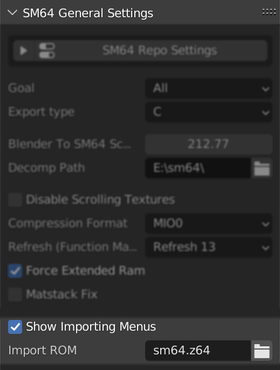
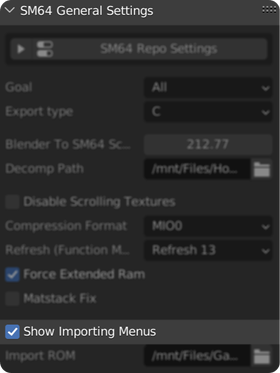
importing c and binary

diff --git a/sm64/animations/v24.rst b/sm64/animations/v24.rst
@@ -3,13 +3,33 @@ Animations 2.4.0+
 
 Importing existing animations
 -----------------------------
-To import animations, you will need a rig.
-`Read this to import your desired model's rig <https://github.com/Fast-64/fast64/blob/main/fast64_internal/sm64/README.md#importingexporting-sm64-geolayouts>`_ 
-or, for Mario, use the `example Mario model <https://github.com/Fast64/fast64-models/tree/mario-examples/mario>`_.
+| To import animations, you will need a rig.
+    `Read this to import your desired model's rig <https://github.com/Fast-64/fast64/blob/main/fast64_internal/sm64/README.md#importingexporting-sm64-geolayouts>`_ 
+    or, for Mario, use the `example Mario model <https://github.com/Fast64/fast64-models/tree/mario-examples/mario>`_.
+| Make sure to enable ``Show Importing Menus`` in the panel ``SM64 General Settings``.
 
-Then follow your respective import goal below.
+.. image:: ../showing_importing_menus.png
+    :align: center
+    :alt: SM64 Animation Inspector with the importing sub-panel opened
+
+~~~~~~~~~~~~~~~~~~~~~~~~~~~~~~~~~~~~~~~~~~~~~~~~~~~~~~~~~~~~~~~~~~~~~~
+
+After that you can find the sub-panel ``Importing`` under ``SM64 Animation Inspector``.
+
+.. image:: importer.png
+    :align: center
+    :alt: SM64 Animation Inspector with the importing sub-panel opened
+
+Then follow your respective import goal:
     - `Binary <#importing-existing-animations-binary>`_
+    - `C <#importing-existing-animations-c>`_
 
+Importing existing animations (C)
+---------------------------------
+| Select the ``C`` type and select a preset using the search button next to it, for custom presets simply select a folder or file,
+    otherwise set the decomp path in the animation importer or the general settings.
+| Enable ``Use Custom Name`` if you need the original names.
+| See `General Import Settings`_ for info on the rest of the settings.
 
 Importing existing animations (Binary)
 --------------------------------------
@@ -21,28 +41,23 @@ Setting up the ROM
 
 How to use the importer
 ~~~~~~~~~~~~~~~~~~~~~~~
-.. image:: binary_importer.png
-    :alt: "Importing Binary SM64 Animations"
-    :align: center
 
-| Select the "Binary" type and select a preset using the search button next to it, for custom presets see `Custom Import Preset (Binary)`_.
-| See `General Import Settings`_ for info on the rest of the settings.
+Select the ``Binary`` type and select a preset using the search button next to it, 
+keep reading to learn how to use custom presets, otherwise skip to `General Import Settings`_ for info on the rest of the settings.
 
-Custom Import Preset (Binary)
-~~~~~~~~~~~~~~~~~~~~~~~~~~~~~
-
+Custom Import Preset
+~~~~~~~~~~~~~~~~~~~~
 **Types**
-    - DMA: Import from a DMA table (Mario), you will need to set the ``DMA Table Address`` to the address in ROM.
-    - Table: Import from a table, you will need to enable/disable ``Is Segmented Address`` and set the address of the table, 
+    - ``DMA``: Import from a DMA table (Mario), you will need to set the ``DMA Table Address`` to the address in ROM.
+    - ``Table``: Import from a table, you will need to enable/disable ``Is Segmented Address`` and set the address of the table, 
       set ``Level`` to a level where the table is loaded, enable ``Check NULL Delimiter`` if the table's last element is a NULL (0x00)
       otherwise set ``Size`` to the amount of elements if you have ``Read Entire Table`` enabled, if you aren´t reading the entire table
       you need to set the ``Index``.
-    - Animation: Import a single animation, you will need to enable/disable ``Is Segmented Address``, set the address of the animation header 
+    - ``Animation``: Import a single animation, you will need to enable/disable ``Is Segmented Address``, set the address of the animation header 
       and set ``Level`` to a level where the animation is loaded.
 
-**Ignore Bone Count**
-    Ignore the bone count of the target armature, 
-    necesary for when headers have a different bone count than the target armature.
+Enable ``Ignore Bone Count`` to ignore the bone count of the target armature, 
+this is necesary for when headers have a different bone count than the target armature (Like the Amp).
 
 Import Preset Settings
 ~~~~~~~~~~~~~~~~~~~~~~

diff --git a/sm64/enable_importing_binary.rst b/sm64/enable_importing_binary.rst
@@ -2,8 +2,5 @@ First, you must acquire an extended ROM (unless you only intend on importing Mar
 For this, you can use `ROM Manager <https://pilzinsel64.de/sm64-rom-manager/>`_ 
 or alternatively `sm64Extend <https://smwc.me/s/20095>`_.
 
-Enable "Show Importing Menus" in the panel "SM64 General Settings". Then set the Import Rom path to your extended ROM.
-
-.. image:: /sm64/showing_importing_menus.png
-    :alt: "Show Importing Menus" toggle highlighted in the panel "SM64 General Settings"
-    :align: center
+Enable ``Show Importing Menus`` in the panel ``SM64 General Settings``. 
+Then set the ``Import Rom`` to your extended ROM's path.
